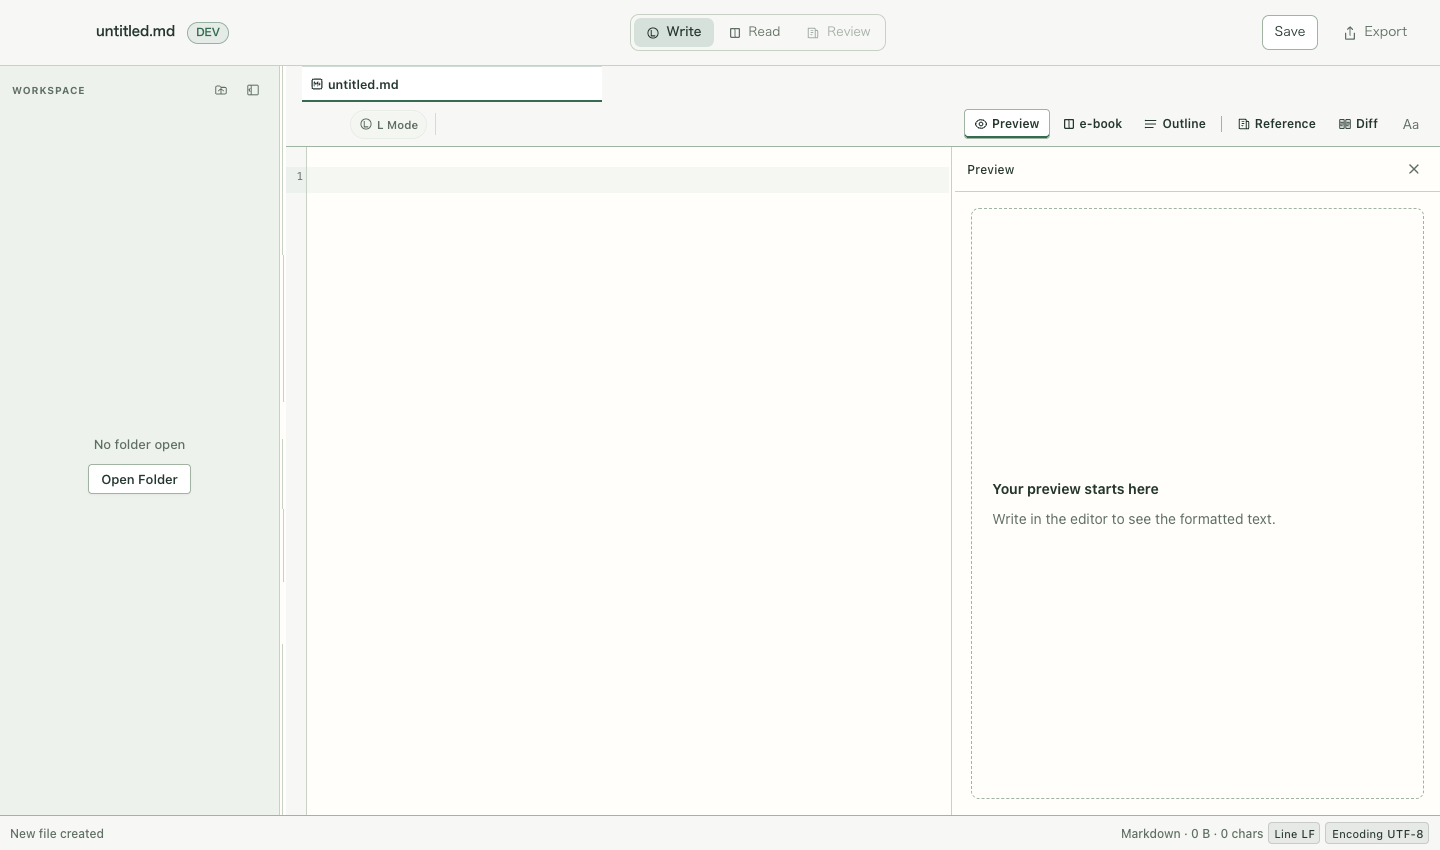
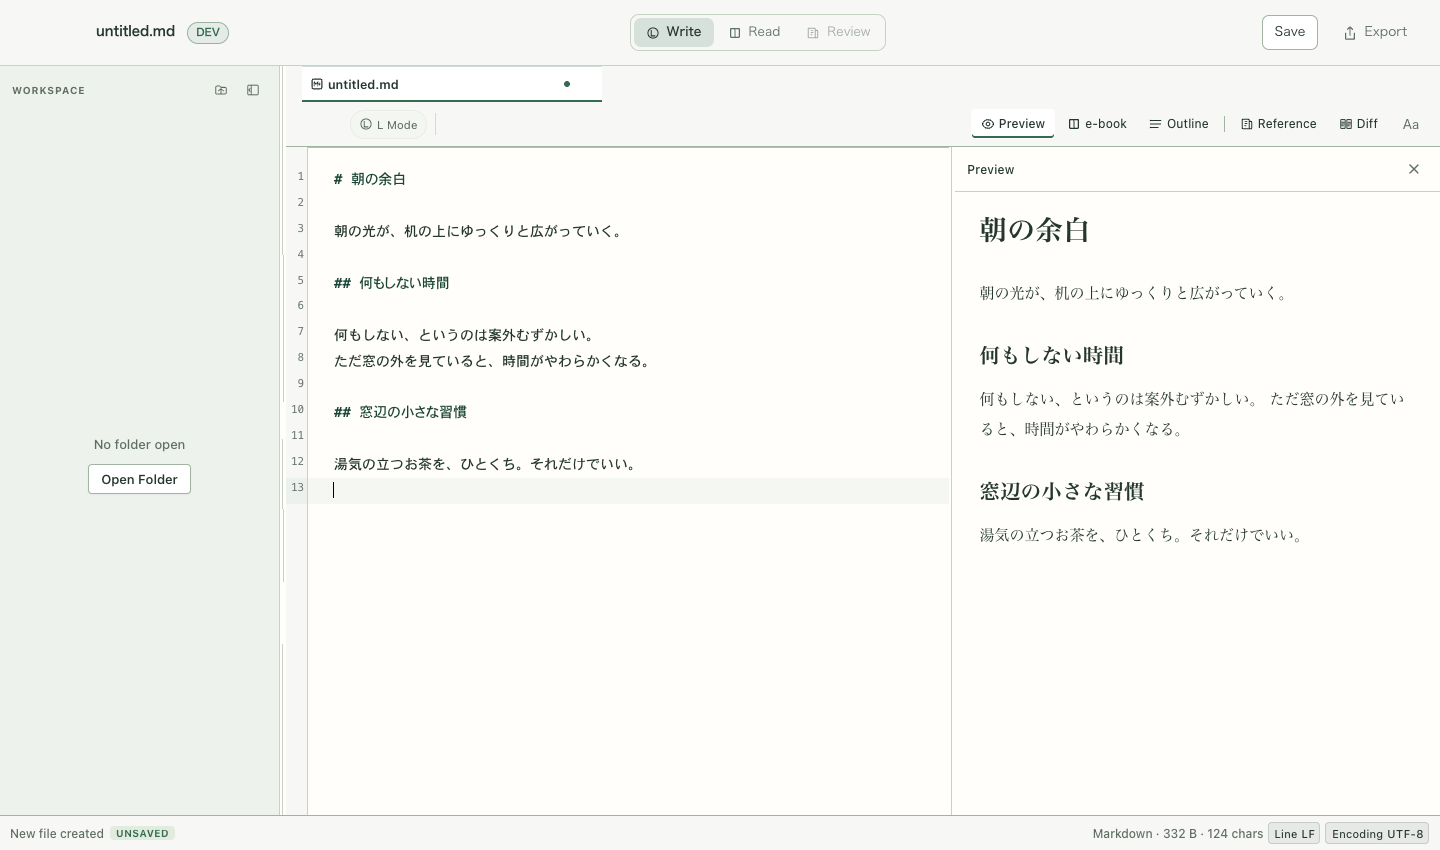
テーマ: お遊びテーマの演出を復活（実機第4弾・第10報）
実機指摘「CRT/江戸彼岸はリッチ要素が無い。オープニングは動くがそれ以上の演出が無い。
深海はワークスペースだけ動く。お遊びテーマなので遊びを明確に（全部戻さなくてよい・負荷は多少可）」。

原因: 演出（WebGL）が不透明な紙の**後ろ**（--z-base）に居り、ペインが覆う範囲では見えず、
背景の隙間（ワークスペース）だけ動いていた。

方針（オーナー選択）: 面を透かして背景の動きを見せる＋前景の演出を一段戻す。
タブ・ツールバー・ステータスは静かなまま（読みやすさは守る）。負荷は見た目優先。

- 紙を透かす: crt/shinkai rgba(...,0.9) / edohigan rgba(...,0.93)（--cm-bg も追随）
- 江戸彼岸の花びら: z-base → calc(var(--z-dropdown) - 10)（面の上・モーダルより下）、
  opacity 0.25 → 0.18、multiply 維持（紙と文字を同じ係数で暗くするのでコントラストは保たれる）
- 江戸彼岸の淡い光: 同じ層へ、normal → soft-light
- フレーム上限: normal 30fps → 60fps、subtle 24 → 30fps（DPR 2 は維持）

契約の置き換え: themeContrast.test.ts の「不透明な紙」を「透かしても読める」へ。
半透明の紙を地色と合成し、本文・補助文字が AA 以上＋alpha ≥ 0.88 を検査。

実描画（fixture 実DOM実測）:
- crt paper rgba(13,26,17,0.9) / canvas z=1 / overlay z=1200 multiply
- shinkai paper rgba(20,56,74,0.9) / canvas z=1 / overlay z=1200 screen
- edohigan paper rgba(255,252,248,0.93) / canvas z=90 opacity 0.18 multiply / overlay z=90 soft-light

diff --git a/src/styles/themeContrast.test.ts b/src/styles/themeContrast.test.ts
@@ -89,6 +89,47 @@ function tokenValue(selector: string, token: string): string {
   return body.match(new RegExp(`${token}:\\s*(#[0-9a-f]{6})`, "i"))?.[1] ?? "";
 }
 
+function hexToChannels(hex: string): string {
+  return [1, 3, 5]
+    .map((offset) => Number.parseInt(hex.slice(offset, offset + 2), 16))
+    .join(", ");
+}
+
+/**
+ * 紙トークンを不透明な色に解決する（半透明なら地色と合成＝実描画の見え方に近い）。
+ * お遊びテーマは演出を透かすために紙が rgba なので、色の検査はこの解決を通す。
+ */
+function resolvedPaper(theme: string): string {
+  const selector = theme === "light" ? ":root" : `:root[data-theme="${theme}"]`;
+  const declaration = tokenDeclarationIn(themeCss, selector, "--surface-paper").replace(
+    "--surface-paper: ",
+    "",
+  );
+  const rgba = declaration.match(/rgba\((\d+),\s*(\d+),\s*(\d+),\s*([\d.]+)\)/);
+  if (!rgba) {
+    return declaration;
+  }
+  const hex = `#${[1, 2, 3]
+    .map((index) => Number(rgba[index]).toString(16).padStart(2, "0"))
+    .join("")}`;
+  const background = tokenDeclarationIn(themeCss, selector, "--bg").replace("--bg: ", "");
+  return /^#[0-9a-fA-F]{6}$/.test(background)
+    ? blendOver(hex, background, Number(rgba[4]))
+    : hex;
+}
+
+/** 半透明の面（top, alpha）を下地（bottom）に重ねた結果の色。 */
+function blendOver(top: string, bottom: string, alpha: number): string {
+  const channel = (offset: number) =>
+    Math.round(
+      Number.parseInt(top.slice(offset, offset + 2), 16) * alpha +
+        Number.parseInt(bottom.slice(offset, offset + 2), 16) * (1 - alpha),
+    );
+  return `#${[1, 3, 5]
+    .map((offset) => channel(offset).toString(16).padStart(2, "0"))
+    .join("")}`;
+}
+
 function relativeLuminance(hex: string): number {
   const channels = [1, 3, 5].map((offset) =>
     Number.parseInt(hex.slice(offset, offset + 2), 16) / 255,
@@ -131,18 +172,34 @@ describe("Preview theme contrast", () => {
     },
   );
 
+  /**
+   * 実機要望（第10報）: お遊びテーマの演出が紙を通して見えるように、読み書きの面を
+   * **少しだけ**透かす（従来は「不透明な紙」を固定していた）。読めなくならないよう、
+   * 背景（テーマの --bg）と合成した最悪ケースでも本文のコントラストを AA 以上に保つ。
+   */
   it.each([
-    ["edohigan", "#fffcf8"],
-    ["crt", "#0d1a11"],
-    ["shinkai", "#14384a"],
-  ] as const)("%s keeps an opaque paper for reading", (theme, surface) => {
-    expect(
-      tokenDeclarationIn(themeCss, `:root[data-theme="${theme}"]`, "--surface-paper"),
-    ).toBe(`--surface-paper: ${surface}`);
-    expect(
-      tokenDeclarationIn(previewCss, `:root[data-theme="${theme}"] .preview-pane-preview`, "--preview-reading-surface"),
-    ).toBe("--preview-reading-surface: var(--surface-paper)");
-  });
+    ["edohigan", "#fffcf8", 0.93],
+    ["crt", "#0d1a11", 0.9],
+    ["shinkai", "#14384a", 0.9],
+  ] as const)(
+    "%s lets the theme show through the paper while keeping the text readable",
+    (theme, paper, alpha) => {
+      expect(
+        tokenDeclarationIn(themeCss, `:root[data-theme="${theme}"]`, "--surface-paper"),
+      ).toBe(`--surface-paper: rgba(${hexToChannels(paper)}, ${alpha})`);
+      expect(
+        tokenDeclarationIn(previewCss, `:root[data-theme="${theme}"] .preview-pane-preview`, "--preview-reading-surface"),
+      ).toBe("--preview-reading-surface: var(--surface-paper)");
+
+      // 透かした紙をテーマの地色と合成した色＝紙の下から演出が見える分だけ地色が混ざる。
+      const composited = blendOver(paper, themeToken(theme, "--bg"), alpha);
+      expect(
+        contrastRatio(composited, themeToken(theme, "--text")),
+      ).toBeGreaterThanOrEqual(4.5);
+      // 透かしすぎない（読む面として成立する下限）。
+      expect(alpha).toBeGreaterThanOrEqual(0.88);
+    },
+  );
 });
 
 describe("paper token", () => {
@@ -173,7 +230,15 @@ describe("paper token", () => {
   it.each(themes)(
     "%s defines one paper token in the theme",
     (theme) => {
-      expect(tokenHex(theme, "--surface-paper")).toBe(paper[theme]);
+      // お遊びテーマは演出を透かすために rgba（同じ色・alpha 0.88 以上）。
+      const declaration = tokenHex(theme, "--surface-paper");
+      expect(
+        declaration === paper[theme] ||
+          declaration.startsWith(`rgba(${hexToChannels(paper[theme])},`),
+      ).toBe(true);
+      if (declaration.startsWith("rgba(")) {
+        expect(Number(declaration.match(/,\s*([\d.]+)\)$/)?.[1] ?? "0")).toBeGreaterThanOrEqual(0.88);
+      }
       expect(tokenDeclarationIn(themeCss, selectorFor(theme), "--nav-surface")).not.toBe("");
     },
   );
@@ -182,10 +247,10 @@ describe("paper token", () => {
     "%s keeps body and muted text readable on the paper",
     (theme) => {
       expect(
-        contrastRatio(paper[theme], tokenHex(theme, "--text")),
+        contrastRatio(resolvedPaper(theme), tokenHex(theme, "--text")),
       ).toBeGreaterThanOrEqual(4.5);
       expect(
-        contrastRatio(paper[theme], tokenHex(theme, "--text-muted")),
+        contrastRatio(resolvedPaper(theme), tokenHex(theme, "--text-muted")),
       ).toBeGreaterThanOrEqual(4.5);
     },
   );
@@ -221,7 +286,7 @@ describe("border hierarchy", () => {
   // 2段階の差が潰れないことを見る。単なるペイン間の1px線は3:1を目標にしない（C08の3:1は
   // focus と重要な輪郭の話で、全罫線を濃くすると静かな紙面が壊れる）。
   it.each(themeNames)("%s keeps the two border steps distinct", (theme) => {
-    const paper = themeToken(theme, "--surface-paper");
+    const paper = resolvedPaper(theme);
     const border = themeToken(theme, "--border");
     const strong = themeToken(theme, "--border-strong");
     expect(border).toMatch(/^#[0-9a-fA-F]{6}$/);

diff --git a/src/styles/edohigan-theme.css b/src/styles/edohigan-theme.css
@@ -25,7 +25,9 @@
      読む・書く面は不透明な紙面 --surface-paper、ナビ面も不透明にして
      明色の紙面で文字コントラストを自動検査できるようにする。 */
   --surface: rgba(255, 253, 250, 0.72);
-  --surface-paper: #fffcf8;
+  /* 実機要望（第10報）: 花びら・陽光が紙を通して見えるように少しだけ透かす
+     （alpha 0.93。明るい紙なので背景はほんのり色づく程度に留める）。 */
+  --surface-paper: rgba(255, 252, 248, 0.93);
   --nav-surface: #f4e9e6;
   --surface-rgb: 255, 253, 250;
   --surface-strong: rgba(255, 255, 255, 0.82);
@@ -125,11 +127,15 @@
   height: 100%;
   inset: 0;
   mix-blend-mode: multiply;
-  opacity: 0.25;
+  /* 実機要望（第10報）: お遊びテーマの「遊び」が見えない。花びらを**前景**へ戻す。
+     multiply は紙と文字を同じ係数で暗くするのでコントラスト比は保たれる（＝読める）。
+     紙の上に淡い影として乗る程度に opacity を抑える。 */
+  opacity: 0.18;
   pointer-events: none;
   position: fixed;
   width: 100%;
-  z-index: var(--z-base);
+  /* 面の上・モーダル/パレットより下（このファイル元来の意図を守る）。 */
+  z-index: calc(var(--z-dropdown) - 10);
 }
 
 :root[data-theme="edohigan"] .app-shell:has(.edohigan-boot:not(.edohigan-boot-scatter))
@@ -162,10 +168,11 @@
       rgba(120, 90, 96, 0.08) 100%
     );
   inset: 0;
-  mix-blend-mode: normal;
+  mix-blend-mode: soft-light;
   pointer-events: none;
   position: fixed;
-  z-index: var(--z-base);
+  /* 淡い桜の光も面の上へ（soft-light なので明るい紙を濁らせない）。モーダルより下は維持。 */
+  z-index: calc(var(--z-dropdown) - 10);
 }
 
 /* 4. 文字 — 明るい紙面ではグローを載せない */

diff --git a/src/styles/crt-theme.css b/src/styles/crt-theme.css
@@ -23,7 +23,10 @@
   /* chrome（ツールバー・タブ・ステータス）は --bg と同値。 */
   --chrome-surface: #040a06;
   --surface: #08120c;
-  --surface-paper: #0d1a11;
+  /* 実機要望（第10報）: お遊びテーマの演出が紙を通して見えるように、読み書きの面を
+     少しだけ透かす（alpha 0.92 = 背景の動きが8%だけ乗る）。文字は面の上に載るので
+     コントラストはほぼ変わらない（themeContrast テストで担保）。 */
+  --surface-paper: rgba(13, 26, 17, 0.9);
   --nav-surface: #101d13;
   --surface-rgb: 8, 18, 12;
   --surface-strong: #0d1a11;

diff --git a/src/styles/shinkai-theme.css b/src/styles/shinkai-theme.css
@@ -32,7 +32,8 @@
      ただし読む・書く面 (エディタ / プレビュー) は不透明な紙面 --surface-paper を使い、
      水流はサイドバーなど操作面で残す。 */
   --surface: rgba(15, 53, 72, 0.72);
-  --surface-paper: #14384a;
+  /* 実機要望（第10報）: 水流・チリが紙を通して見えるように少しだけ透かす（alpha 0.92）。 */
+  --surface-paper: rgba(20, 56, 74, 0.9);
   --nav-surface: rgba(9, 36, 49, 0.78);
   --surface-rgb: 15, 53, 72;
   --surface-strong: rgba(20, 64, 86, 0.72);

diff --git a/src/features/theme/ambientRenderBudget.ts b/src/features/theme/ambientRenderBudget.ts
@@ -38,12 +38,13 @@ export function ambientMinFrameIntervalMs(
     case "dramatic":
       return 0;
     case "normal":
-      return 1000 / 30;
+      // 実機要望（第10報）: 演出が見えないほど間引かれていた。見た目優先で 60fps へ戻す。
+      return 1000 / 60;
     case "subtle":
-      return 1000 / 24;
+      return 1000 / 30;
     case "off":
     default:
-      return 1000 / 24;
+      return 1000 / 30;
   }
 }
 

diff --git a/docs/reviews/2026-09-11-mock-gap-sweep/README.md b/docs/reviews/2026-09-11-mock-gap-sweep/README.md
@@ -110,6 +110,37 @@
 - ビュー切替（プレビュー/電子書籍…）の選択中も**枠を透明に**して面と下線だけに。
 - 紙（プレビューの本文＝見出しの 700）は**そのまま**＝読ませたいところだけ残す。
 
+### 実機第4弾・第10報（お遊びテーマの演出復活）
+
+オーナーの指摘: 「CRT / 江戸彼岸は全くリッチ要素が無い。オープニングは動くが、それ以上の
+演出が無い。深海はワークスペースだけ動く。お遊びテーマなので“遊び”を明確に。全部戻す必要は
+ないが演出はする（負荷は多少かけて良い）」。
+
+**原因**: 演出（WebGL）は不透明な紙の**後ろ**（`z-index: var(--z-base)`）に居たため、
+ペインが覆う範囲では見えず、背景の隙間（ワークスペース）だけ動いていた。
+
+方針（オーナー選択）: **面を透かして背景の動きを見せる＋前景の演出を一段戻す。
+タブ・ツールバー・ステータスは静かなまま**（読みやすさは守る）。負荷は見た目優先。
+
+| 変更 | 内容 |
+|---|---|
+| 紙を透かす | crt/shinkai `--surface-paper: rgba(..., 0.9)`、edohigan `rgba(..., 0.93)`（`--cm-bg` も追随） |
+| 江戸彼岸の花びら | `z-base` → `calc(var(--z-dropdown) - 10)`（面の上・モーダルより下）、opacity 0.25→0.18、multiply 維持 |
+| 江戸彼岸の淡い光 | 同上の層へ、`normal` → `soft-light` |
+| フレーム上限 | normal 30fps → **60fps**、subtle 24 → 30fps（DPR 2 は維持） |
+
+**契約の置き換え**: `themeContrast.test.ts` の「**不透明な紙**」を「**透かしても読める**」へ。
+半透明の紙を地色と合成し、本文・補助文字が AA（4.5:1）以上であること＋ alpha ≥ 0.88 を検査
+（`resolvedPaper` / `blendOver` / `hexToChannels` を追加）。
+
+実描画（fixture・実DOM実測）:
+- crt: paper `rgba(13, 26, 17, 0.9)` / canvas z=1（背後＝透けて見える）/ overlay z=1200 multiply（前景スキャン）
+- shinkai: paper `rgba(20, 56, 74, 0.9)` / canvas z=1 / overlay z=1200 screen
+- edohigan: paper `rgba(255, 252, 248, 0.93)` / canvas z=90 opacity 0.18 multiply / overlay z=90 soft-light
+
+画像: `theme-play-crt.png` / `theme-play-edohigan.png`。WebGL の中身はヘッドレスで
+キャプチャが不安定なため、層と透け具合は computed style で確認している（映像の最終確認は実機）。
+
 ### 未着手（やるなら次スライス）
 
 | # | 内容 | 見積り |
